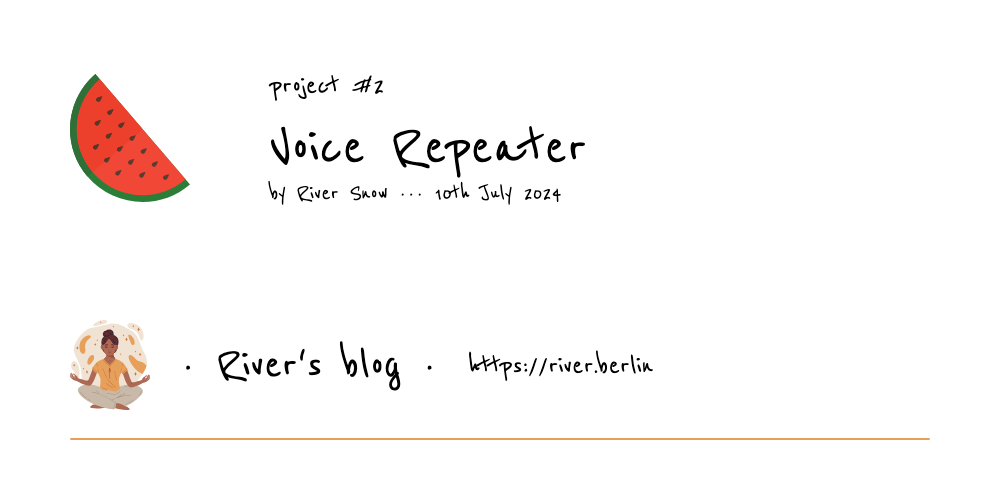
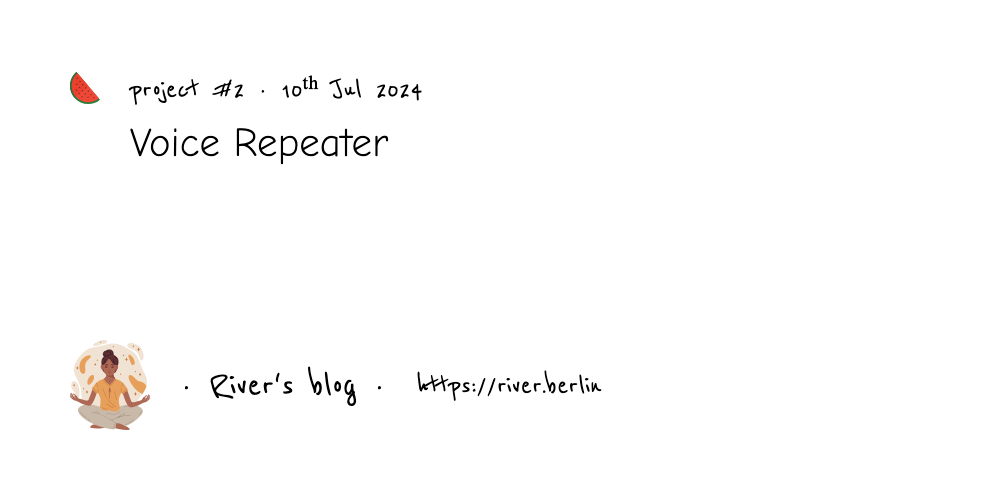
redesign opengraph images with new font and simplified layout

diff --git a/app/generate-opengraph.js b/app/generate-opengraph.js
@@ -21,19 +21,8 @@ const style = `
   position : absolute;
   left : 35px;
   right : 35px;
-  bottom : 45px;
+  bottom : 35px;
   display : flex;
-}
-
-.bottom-thingy::before{
-  content: "";
-  position : absolute;
-  left: 0;
-  bottom : -15px;
-  width: 100%;
-  height: 1px;
-  background: #e6a05b;
-  border-radius: 3px;
 }
 
 .mainimg{
@@ -46,7 +35,7 @@ const style = `
 
 
 .bottom-thingy h1{
-  font-size: 25px;
+  font-size: 20px;
   margin-left : 15px;
   margin-bottom: 0;
   padding: 0;
@@ -61,6 +50,15 @@ const style = `
 .content-indicator .big-text{
   margin-top: 7px;
   margin-bottom: 0;
+  width: 270px;
+  margin-left: 30px;
+  font-family: 'Comic Neue', cursive;
+  font-weight: 300;
+  font-size: 20px;
+}
+
+.type-container img{
+  margin-right: 15px;
 }
 
 .content-indicator .author{
@@ -83,7 +81,21 @@ const style = `
 }
 
 .text-stuff{
-  margin-left: 40px;
+  margin-left: 0;
+}
+
+.type-container {
+  display: flex;
+  align-items: center;
+  margin-bottom: 5px;
+}
+
+.type-container img {
+  margin-right: 15px;
+}
+
+.type-container .type {
+  margin-left: 0;
 }`
 
 function generateHTML(preImageURL, topShortText, mainText, byText){
@@ -93,6 +105,7 @@ return `<html lang="en">
   <meta http-equiv="X-UA-Compatible" content="IE=edge">
   <meta name="viewport" content="width=device-width, initial-scale=1.0">
   <link href="https://fonts.googleapis.com/css2?family=Reenie+Beanie&amp;display=swap" rel="stylesheet">
+  <link href="https://fonts.googleapis.com/css2?family=Comic+Neue:ital,wght@0,300;0,400;0,700;1,300;1,400;1,700&family=Delius&family=Shadows+Into+Light&display=swap" rel="stylesheet">
   <title>Document</title>
   <style>
    ${style}
@@ -110,9 +123,11 @@ return `<html lang="en">
   <div class="main">
     
     <div class="content-indicator">
-      <img src="${preImageURL}" alt="" class="scroll" width=60>
       <div class="text-stuff">
-        <h4 class="type">${topShortText}</h4>
+        <div class="type-container">
+          <img src="${preImageURL}" alt="" class="scroll" width=15>
+          <h4 class="type">${topShortText}</h4>
+        </div>
         <h1 class="big-text">${mainText}</h1>
         <p class='author'>${byText} </p>
       </div>
@@ -141,7 +156,7 @@ function formatDate(dateString) {
   const date = new Date(dateString);
   
   // Array of suffixes for day of the month (1st, 2nd, 3rd, etc.)
-  const suffixes = ['th', 'st', 'nd', 'rd', 'th', 'th', 'th', 'th', 'th', 'th'];
+  const suffixes = ['ᵗʰ', 'ˢᵗ', 'ⁿᵈ', 'ʳᵈ', 'ᵗʰ', 'ᵗʰ', 'ᵗʰ', 'ᵗʰ', 'ᵗʰ', 'ᵗʰ'];
   
   // Function to get the suffix for the day of the month
   function getSuffix(day) {
@@ -153,7 +168,7 @@ function formatDate(dateString) {
   
   // Get day, month, and year
   const day = date.getDate();
-  const month = date.toLocaleString('default', { month: 'long' });
+  const month = date.toLocaleString('default', { month: 'short' });
   const year = date.getFullYear();
   
   // Construct the formatted date string
@@ -165,20 +180,20 @@ function formatDate(dateString) {
 for(let bookTakeaway of bookTakeaways){
   nodeHtmlToImage({
     output : path.join(currentDir, `/static/opengraph/book-takeaways/${bookTakeaway.num}.png`),
-    html : generateHTML("https://river.berlin/scroll.svg", `book take away #${bookTakeaway.num}`, bookTakeaway.metadata.bookTitle, `by ${bookTakeaway.metadata.author} ··· ${formatDate(bookTakeaway.metadata.dated)}`)
+    html : generateHTML("https://river.berlin/scroll.svg", `book take away #${bookTakeaway.num} · ${formatDate(bookTakeaway.metadata.dated)}`, bookTakeaway.metadata.bookTitle, ``)
   })
 }
 
 for(let blog of blogs){
   nodeHtmlToImage({
     output : path.join(currentDir, `/static/opengraph/blog/${blog.num}.png`),
-    html : generateHTML("https://river.berlin/scroll.svg", `blog #${blog.num}`, blog.metadata.title, `by ${blog.metadata.author} ··· ${formatDate(blog.metadata.dated)}`)
+    html : generateHTML("https://river.berlin/scroll.svg", `blog #${blog.num} · ${formatDate(blog.metadata.dated)}`, blog.metadata.title, ``)
   })
 }
 
 for(let project of projects){
   nodeHtmlToImage({
     output : path.join(currentDir, `/static/opengraph/projects/${project.metadata.shortPath}.png`),
-    html : generateHTML("https://river.berlin/fruits/watermelon.svg", `project #${project.num}`, project.metadata.projectTitle, `by ${project.metadata.author} ··· ${formatDate(project.metadata.dated)}`)
+    html : generateHTML("https://river.berlin/fruits/watermelon.svg", `project #${project.num} · ${formatDate(project.metadata.dated)}`, project.metadata.projectTitle, ``)
   })
 }

diff --git a/app/src/routes/blog/blog-[num]/right-pane/easyNav/TableOfContents.svelte b/app/src/routes/blog/blog-[num]/right-pane/easyNav/TableOfContents.svelte
@@ -1,8 +1,8 @@
-<script>
-    export let markdownHTML;
+<script lang="ts">
+    export let markdownHTML : string;
     import { onMount } from 'svelte';
     
-    let headings = [];
+    let headings : any[] = [];
     
     onMount(() => {
         // Use a timeout to ensure the DOM is fully rendered
@@ -13,7 +13,7 @@
             headings = Array.from(articleHeadings).map(heading => {
                 // Create an id if it doesn't exist
                 if (!heading.id) {
-                    heading.id = heading.textContent.toLowerCase().replace(/\s+/g, '-');
+                    heading.id = heading.textContent?.toLowerCase().replace(/\s+/g, '-') || '';
                 }
                 
                 return {

diff --git a/app/src/lib/header.svelte b/app/src/lib/header.svelte
@@ -1,11 +1,11 @@
-<script>
+<script lang="ts">
     import image from "$lib/images/meditating-enby.svg"
     import { page } from '$app/stores';
 
     /**
      * checks if we're accessing something in the feed page
      */
-    function checkFeed(page){
+    function checkFeed(page: any){
         const pathName = page.url.pathname
         return pathName.startsWith("/feed/")||pathName.startsWith("/projects/")||pathName.startsWith("/book-reviews/")||pathName.startsWith("/blog/")
     }

diff --git a/app/src/routes/blog/blog-[num]/+page.server.js b/app/src/routes/blog/blog-[num]/+page.server.js
@@ -18,8 +18,8 @@ console.log(imageMap)
 
 /**
  * Load function for blog page
- * @param {Object} params - Route parameters
- * @param {string} params.num - Blog number
+ * @param {Object} params.params - Route parameters
+ * @param {string} params.params.num - Blog number
  * @returns {Promise<{
  *   blogNum: string,
  *   markdown: string,
